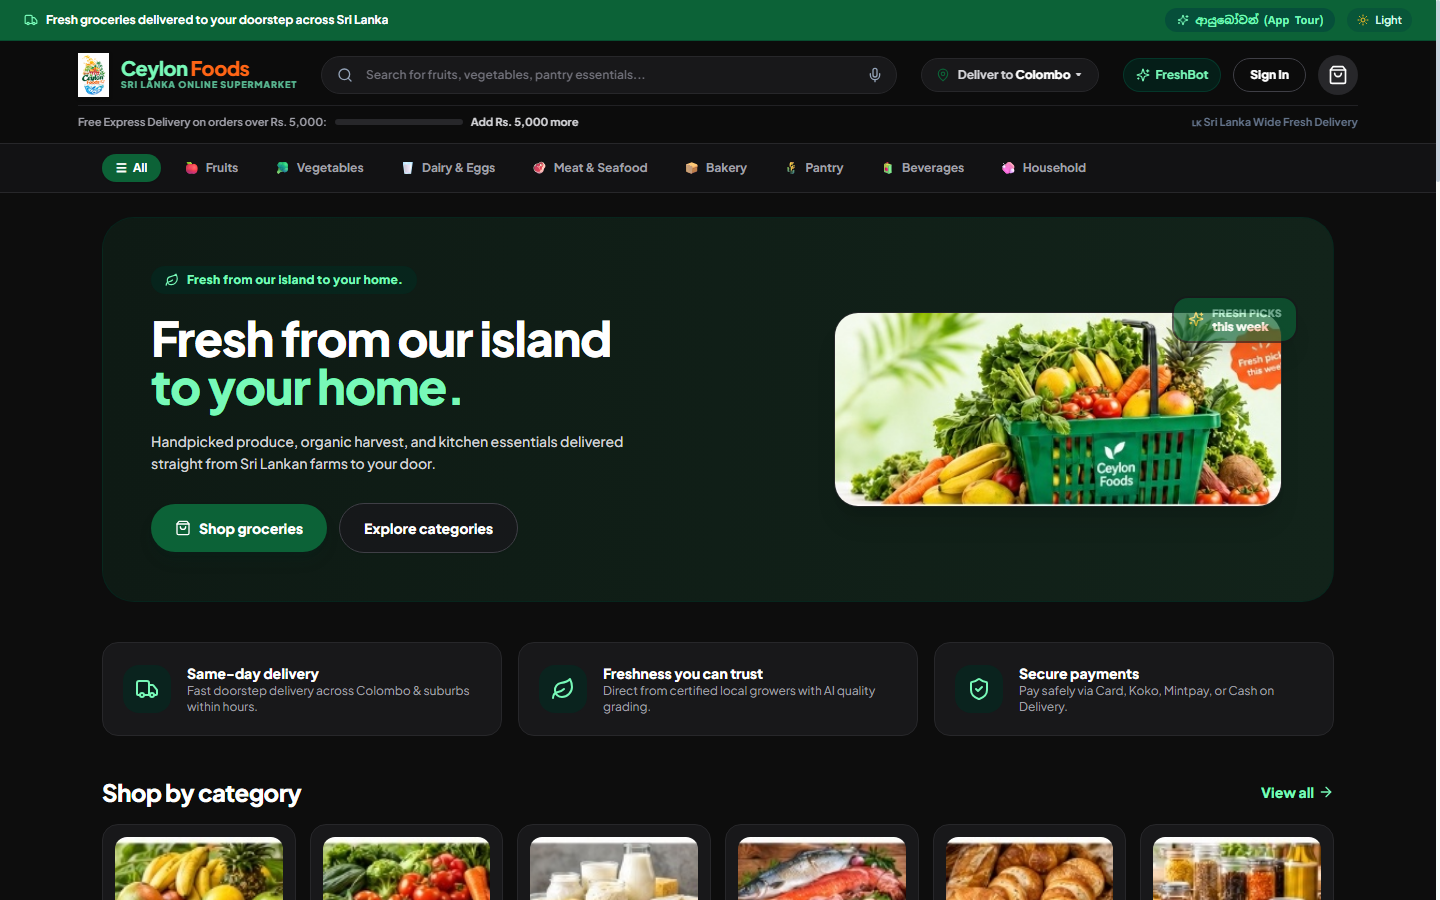
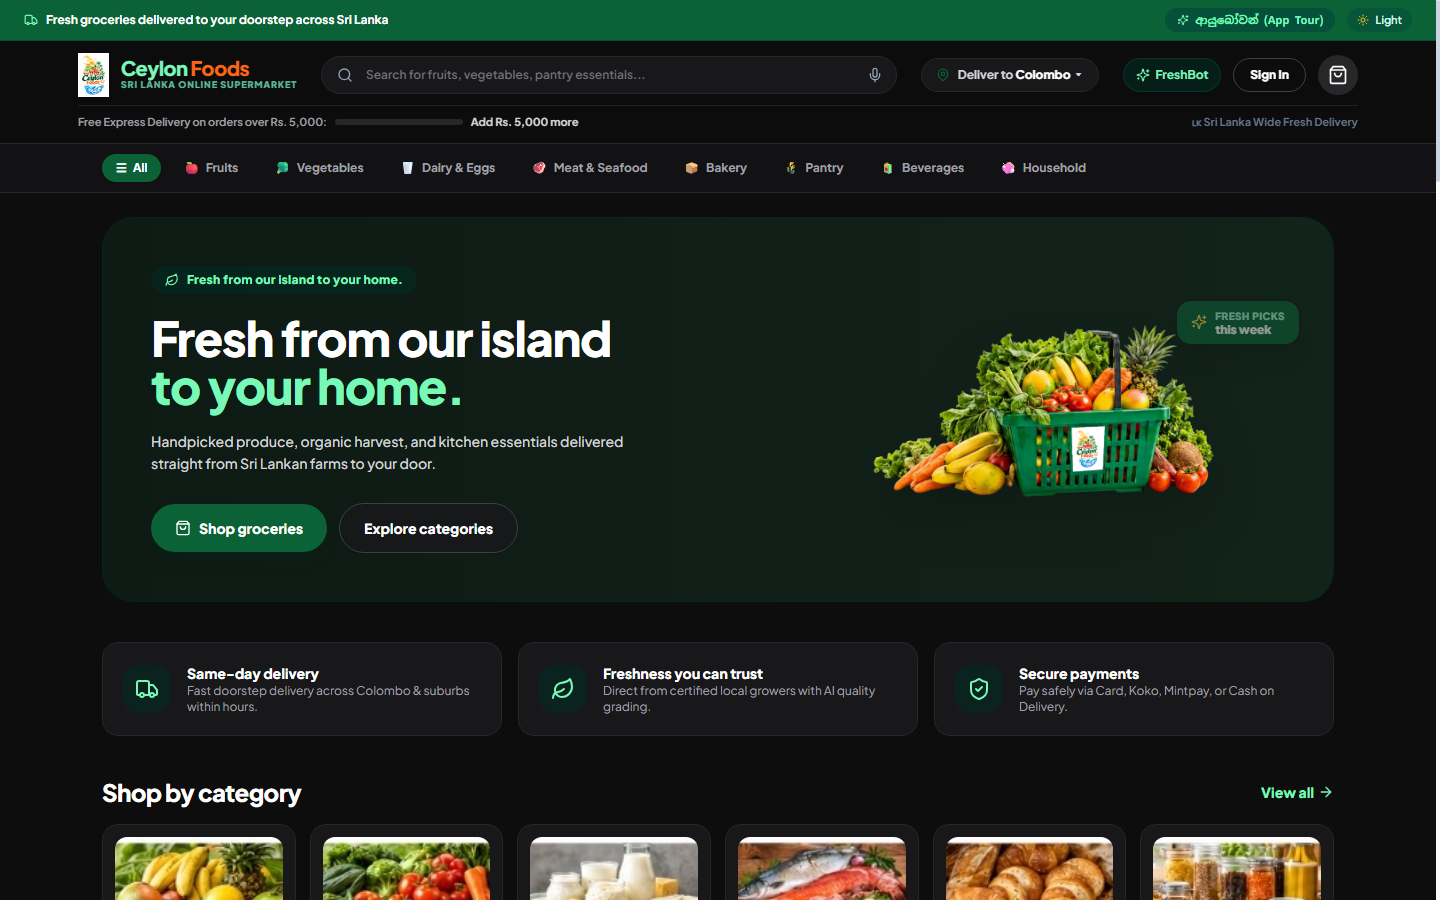
Replace customer home hero image with transparent Ceylon Foods harvest basket and update live screenshots

Changed region(s): [[0.5625, 0.3111, 0.9062, 0.56]]

diff --git a/client/src/App.tsx b/client/src/App.tsx
@@ -90,7 +90,12 @@ const DELIVERY_TIME_SLOTS = [
 ];
 
 export default function ClientWebSupermarket() {
-  const [isDarkMode, setIsDarkMode] = useState(false);
+  const [isDarkMode, setIsDarkMode] = useState(() => {
+    const params = typeof window !== 'undefined' ? new URLSearchParams(window.location.search) : null;
+    if (params?.get('theme') === 'dark') return true;
+    if (params?.get('theme') === 'light') return false;
+    return typeof window !== 'undefined' && localStorage.getItem('ceylonfoods_theme') === 'dark';
+  });
   const [products, setProducts] = useState<Product[]>([]);
   const [selectedCategory, setSelectedCategory] = useState<string>('All');
   const [searchQuery, setSearchQuery] = useState('');
@@ -675,11 +680,11 @@ export default function ClientWebSupermarket() {
 
             {/* Right Column (5 cols) - Hero Image with Scalloped Sunburst Badge */}
             <div className="lg:col-span-5 relative flex items-center justify-center">
-              <div className="relative w-full max-w-md">
+              <div className="relative w-full max-w-xl">
                 <img
-                  src="/home_hero_basket.jpg"
+                  src="/home_hero_basket.png"
                   alt="Ceylon Foods Fresh Harvest Basket"
-                  className="w-full h-auto object-cover rounded-3xl shadow-xl border border-white/60 dark:border-zinc-800"
+                  className="w-full h-auto object-contain filter drop-shadow-2xl transition-transform duration-500 hover:scale-105"
                 />
                 {/* Scalloped Sunburst Badge */}
                 <div className="absolute -top-3 -right-3 sm:-top-4 sm:-right-4 px-3.5 py-2 rounded-2xl bg-[#0C6237] text-white shadow-xl flex items-center gap-2 border-2 border-white dark:border-zinc-900 animate-pulse">
